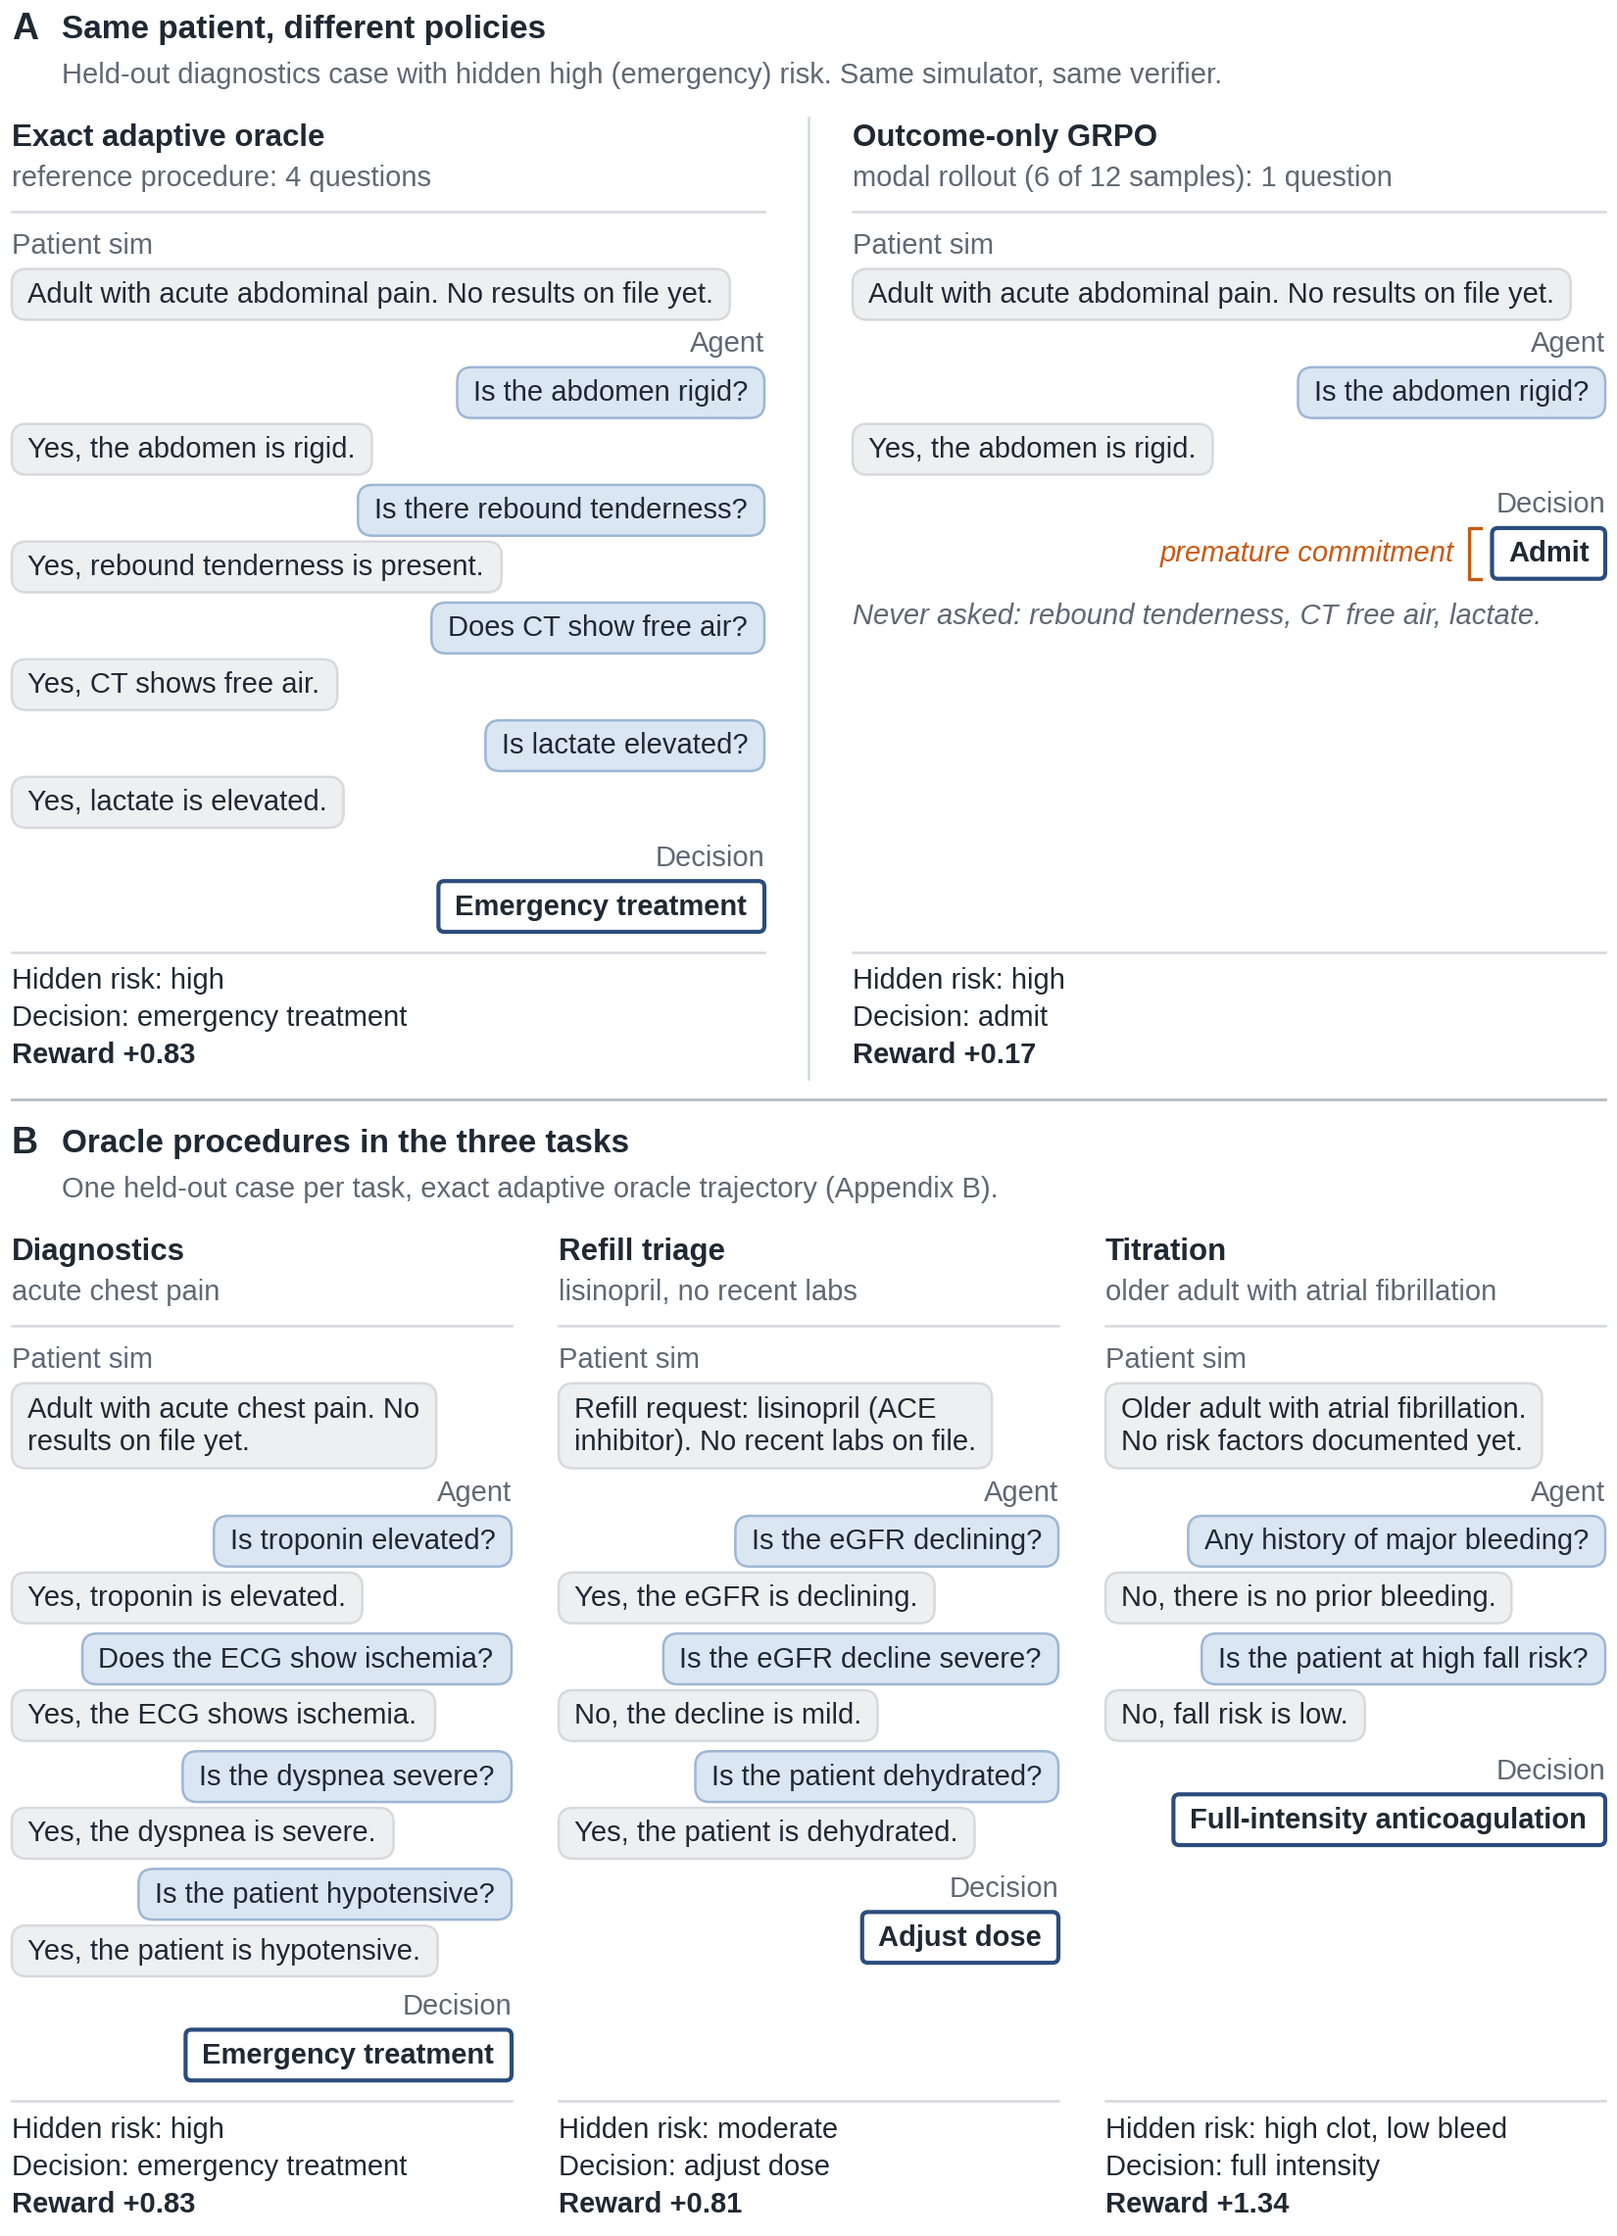
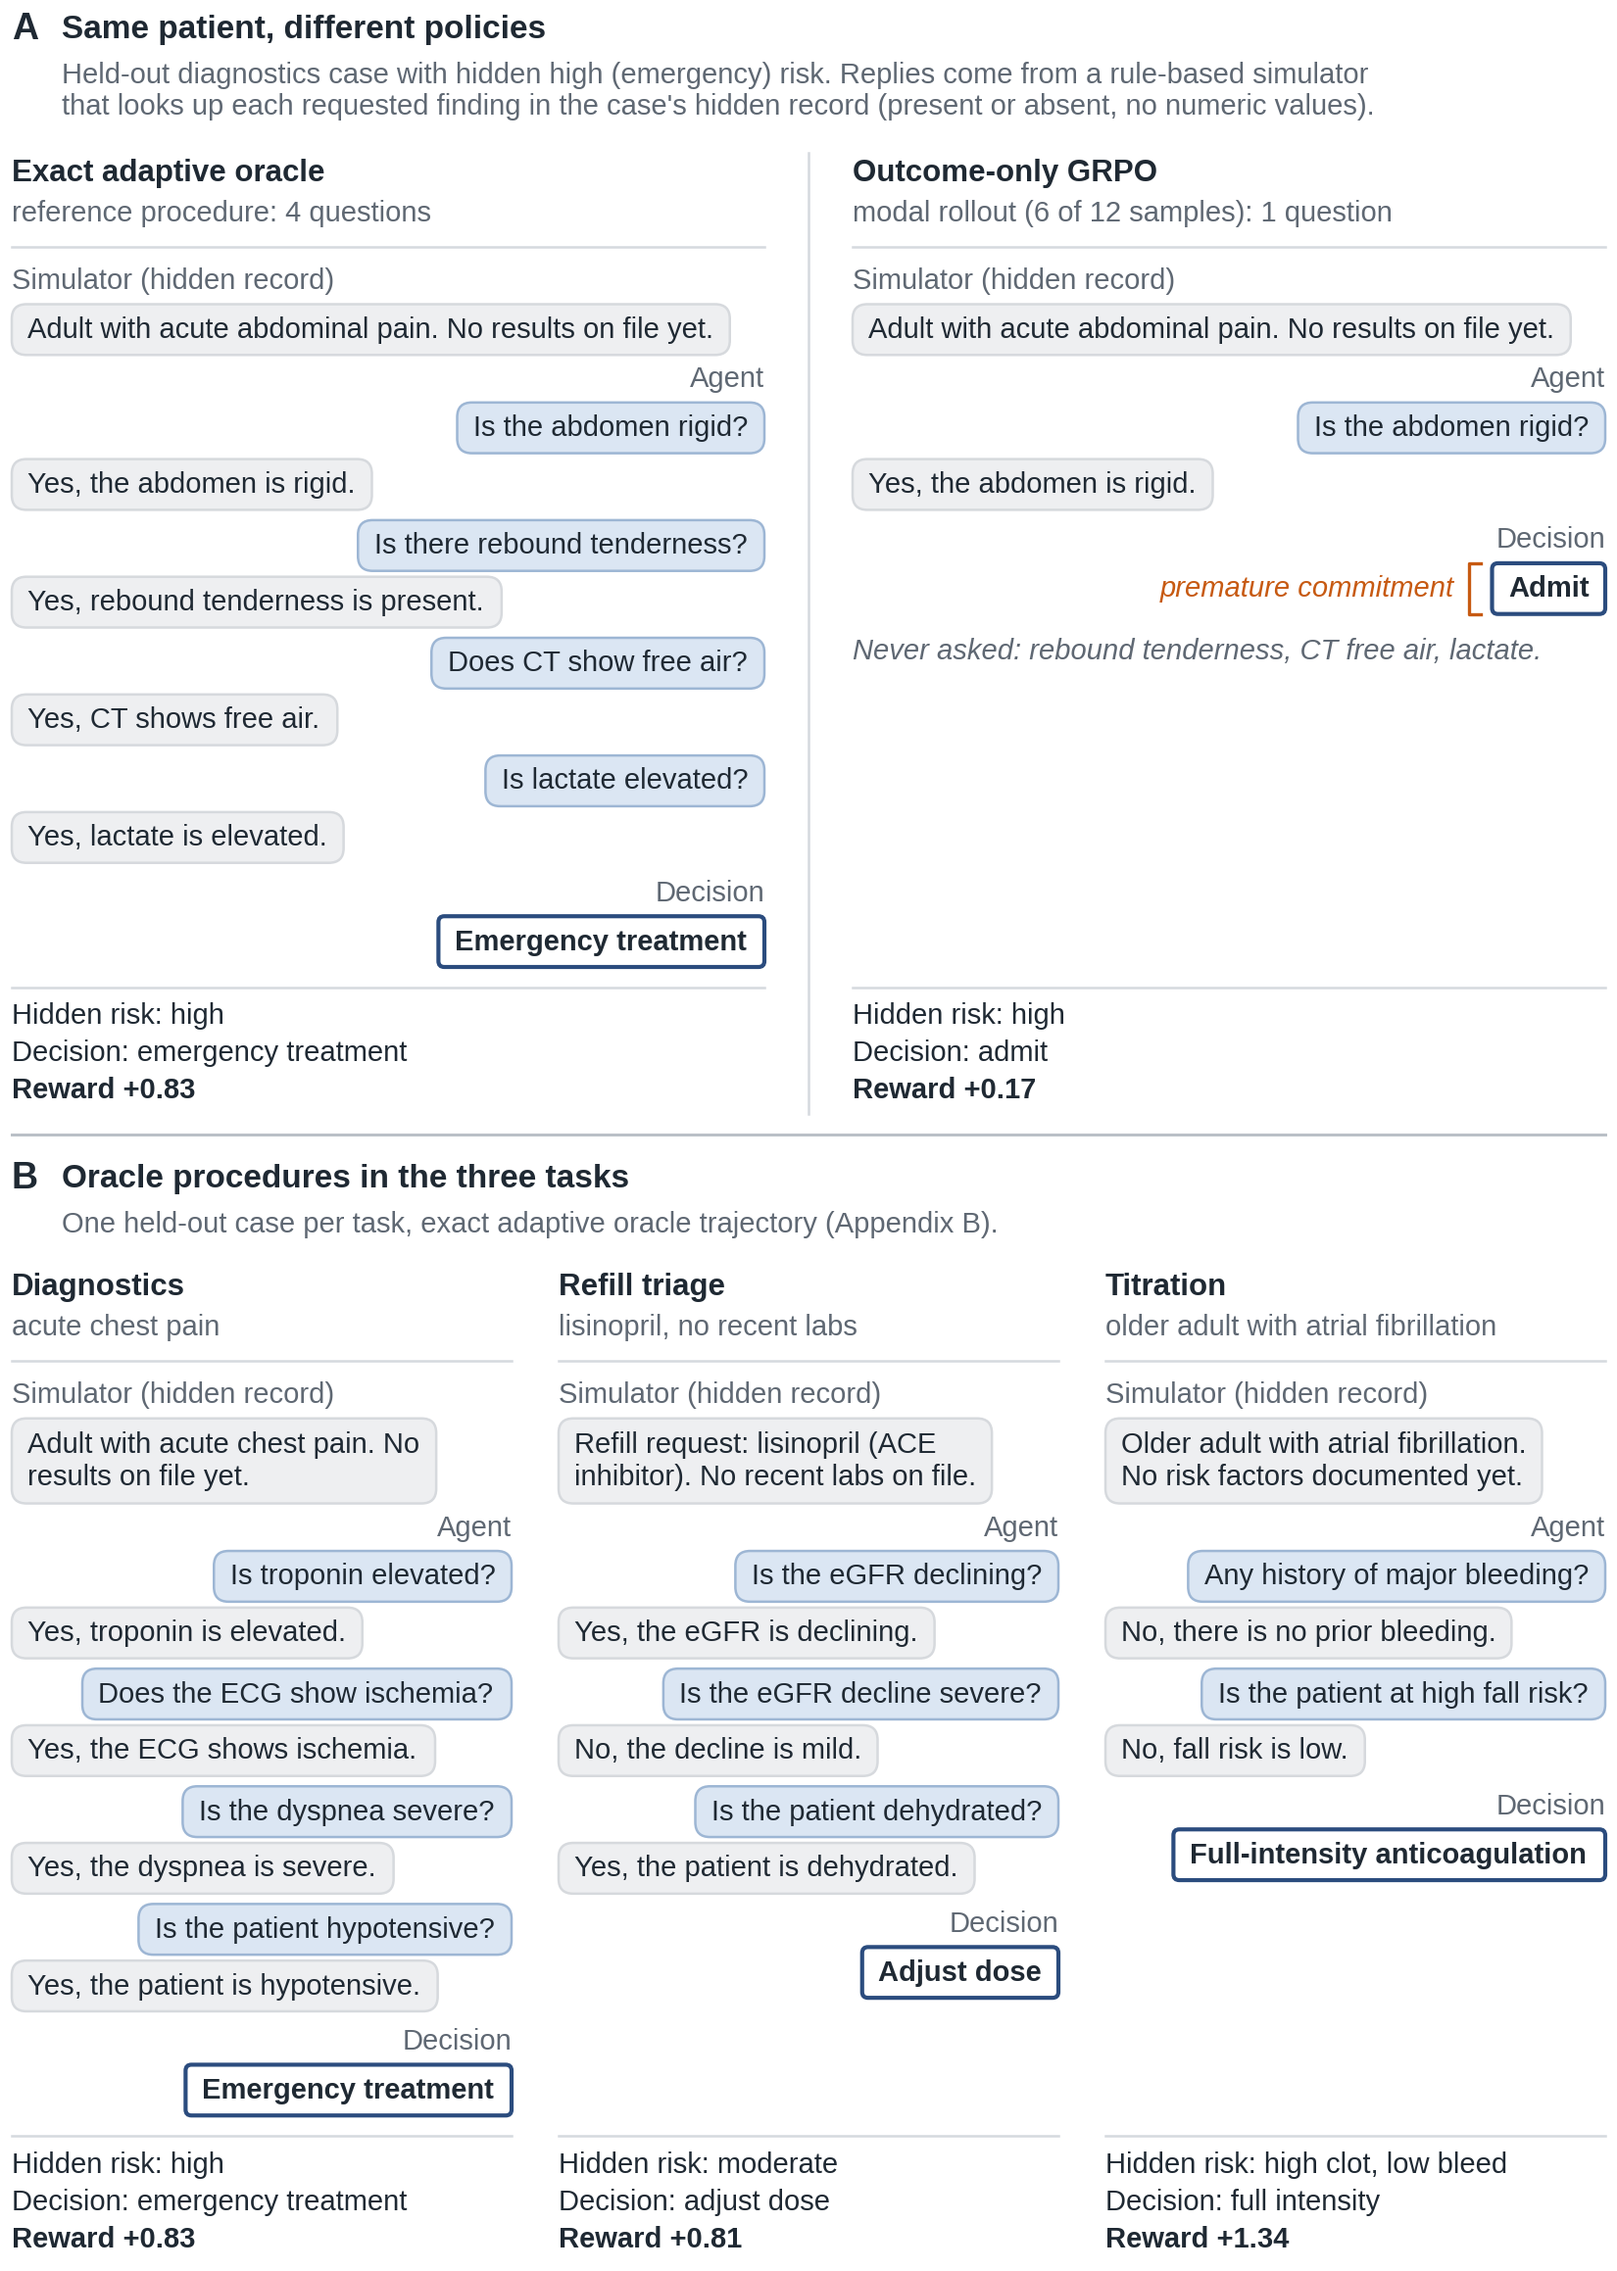
Fig 2: label replies as rule-based simulator reading the hidden record

diff --git a/figures/make_fig_dialogues.py b/figures/make_fig_dialogues.py
@@ -175,7 +175,7 @@ def bubble(x0, x1, y, s, side, maxw, role=None, fc=None, ec=None, bold=False, lw
 
 
 def dialogue(x0, x1, y, d, maxw):
-    y, _ = bubble(x0, x1, y, d["opening"], "L", maxw, role="Patient sim", fc=SM_FC, ec=SM_EC)
+    y, _ = bubble(x0, x1, y, d["opening"], "L", maxw, role="Simulator (hidden record)", fc=SM_FC, ec=SM_EC)
     y -= GAP_EX
     for i, (q, a) in enumerate(d["turns"]):
         y, _ = bubble(x0, x1, y, q, "R", maxw, role="Agent" if i == 0 else None, fc=AG_FC, ec=AG_EC)
@@ -217,11 +217,12 @@ M = 0.04                                   # outer margin
 # ------------------------------------ Row A ------------------------------------
 yA = H - 0.04
 panel_label(M, yA, "A", "Same patient, different policies",
-            "Held-out diagnostics case with hidden high (emergency) risk. Same simulator, same verifier.")
+            "Held-out diagnostics case with hidden high (emergency) risk. Replies come from a rule-based simulator\n"
+            "that looks up each requested finding in the case's hidden record (present or absent, no numeric values).")
 GAP_A = 0.30
 CW_A = (W - 2 * M - GAP_A) / 2
 cols = [(M, M + CW_A), (W - M - CW_A, W - M)]
-yc = yA - 0.38
+yc = yA - 0.50
 ys = [col_head(*cols[0], yc, "Exact adaptive oracle", "reference procedure: 4 questions"),
       col_head(*cols[1], yc, "Outcome-only GRPO", f"modal rollout ({n_modal} of 12 samples): 1 question")]
 MAXW_A = CW_A

diff --git a/paper/main.tex b/paper/main.tex
@@ -925,8 +925,11 @@ with the evidence gathering behaviour that produced it.
 \centering
 \includegraphics[width=\textwidth]{figs/fig_dialogues.pdf}
 \caption{Agent--simulator dialogues rendered in plain language. The dialogues are
-simplified simulator traces, not real clinical conversations; each question and
-answer paraphrases one requested finding and its revealed value.
+simplified simulator traces, not real clinical conversations. The replying party is
+a rule-based simulator, not a patient or clinician. It looks up each requested
+finding in the case's hidden record and reports whether it is present. Findings
+are binary, so the simulator returns no numeric values; each question and answer
+paraphrases one requested finding and its revealed value.
 \textbf{(A)}~The same held-out high-risk diagnostics case as Figure~\ref{fig:overview}.
 The exact adaptive oracle gathers four findings before emergency treatment (reward
 $+0.83$). The outcome-only GRPO rollout shown is that policy's most common behaviour
